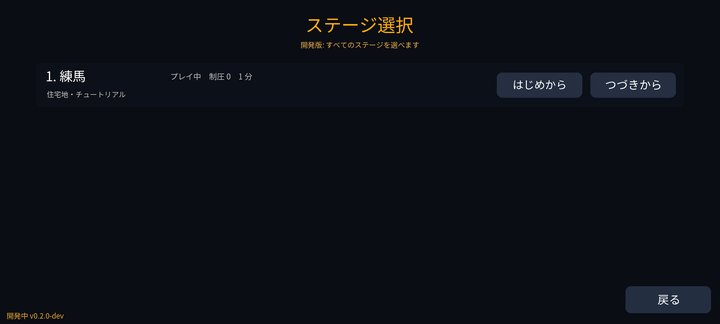
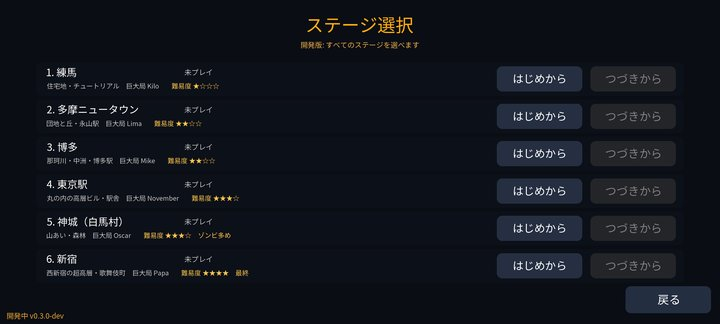
Phonetic Hound 0.3.0-dev (in development)

diff --git a/phonetic_hound/README.md b/phonetic_hound/README.md
@@ -2,7 +2,7 @@
 
 # Phonetic Hound（開発中）
 
-> **⚠ 開発中の版です。** 遊べるのは 2 ステージ（練馬・神城）で、見た目・バランス・操作は今後大きく変わります。
+> **⚠ 開発中の版です。** 全 6 ステージを遊べますが、見た目・バランス・操作は今後大きく変わります。
 > セーブデータは今後の版で引き継げなくなることがあります。
 
 電波で操られたゾンビがあふれる街。スマートフォンの**信号強度と電波の到来方向**を頼りに、
@@ -10,13 +10,13 @@
 
 ## ダウンロード
 
-### [APK をダウンロード（v0.2.0-dev・6.8 MB）](https://github.com/kijitora-no-hito/android-apps/releases/download/phonetichound-v0.2.0-dev/phonetichound-0.2.0-dev-release.apk)
+### [APK をダウンロード（v0.3.0-dev・10.1 MB）](https://github.com/kijitora-no-hito/android-apps/releases/download/phonetichound-v0.3.0-dev/phonetichound-0.3.0-dev-release.apk)
 
 | 項目 | 内容 |
 | --- | --- |
-| バージョン | 0.2.0-dev（2026-09-25・開発中） |
-| ファイル | `phonetichound-0.2.0-dev-release.apk`（7,141,203 バイト） |
[1 lines of base64/hex data omitted]
+| バージョン | 0.3.0-dev（2026-09-25・開発中） |
+| ファイル | `phonetichound-0.3.0-dev-release.apk`（10,631,808 バイト） |
[1 lines of base64/hex data omitted]
 | 対応 Android | 7.0 以上（横画面） |
 | 価格 | 無料・広告なし・アプリ内課金なし・アカウント登録なし |
 
@@ -39,16 +39,31 @@
   地図上の 3 か所の信号強度と到来方向を調べられます。
 - 街並みは実在の地形と建物のデータから作っています。電波は建物での反射・回折まで計算しています。
 
-## この版でできること（0.2.0-dev）
+## この版でできること（0.3.0-dev）
 
-- **ステージ 1「練馬」**（住宅地・チュートリアル、難易度 ★☆☆）と **ステージ 2「神城（白馬村）」**（山あい・森林、難易度 ★★★ ゾンビ多め）を、
-  最初から巨大基地局の停波まで遊べます。開発中の版では、どちらのステージも最初から選べます。
+- **全 6 ステージ**を、最初から巨大基地局の停波まで遊べます。開発中の版では、どのステージも最初から選べます。
+
+  | # | ステージ | 特徴 | 難易度 |
+  | --- | --- | --- | --- |
+  | 1 | 練馬 | 住宅地・チュートリアル | ★ |
+  | 2 | 多摩ニュータウン | 永山駅と団地・丘 | ★★ |
+  | 3 | 博多 | 博多駅・那珂川・中洲（橋を渡る） | ★★ |
+  | 4 | 東京駅 | 丸の内の高層ビル・駅舎・濠 | ★★★ |
+  | 5 | 神城（白馬村） | 山あい・森林・ゾンビ多め | ★★★ |
+  | 6 | 新宿 | 西新宿の超高層街（最終ステージ） | ★★★★ |
+
 - アンテナ 5 種類（メニューの「装備」で持ち替え。手に入れたアンテナは次のステージにも持ち越し）。
 - BGM と効果音（ケルト伝統曲をアプリ内のシンセサイザーで演奏）。設定画面で音量とカメラの感度を変えられます。
 - 操作: 画面の左半分をドラッグで移動、右半分をドラッグで視点。右下のボタンで攻撃・回避・指揮・停波。
 - セーブはステージごとに自動保存（休憩地点・制圧時・60 秒ごと）。0.1.0-dev のセーブは練馬に引き継がれます。
 
-まだ無いもの: 3 ステージ目以降（住宅地・博多・東京駅・新宿を予定）。
+これから: 難易度・バランスの調整、見た目の改善。
+
+### 0.2.0-dev からの変更
+
+- ステージ「多摩ニュータウン」「博多」「東京駅」「新宿」を追加。川・濠の水面、橋、超高層ビルの街並み。
+- ステージごとの探索曲、新宿の決戦曲を追加。
+- 狭い路地でカメラがガタつかないようにしました。
 
 ### 0.1.0-dev からの変更
 
@@ -62,6 +77,14 @@
 <tr>
 <td align="center"><img src="images/01.jpg" width="340" alt="ステージ選択"><br>ステージ選択</td>
 <td align="center"><img src="images/02.jpg" width="340" alt="神城の田んぼと森"><br>神城（白馬村）の田んぼと森</td>
+</tr>
+<tr>
+<td align="center"><img src="images/13.jpg" width="340" alt="新宿の超高層街"><br>新宿（最終）の超高層街</td>
+<td align="center"><img src="images/12.jpg" width="340" alt="東京駅の高層ビル"><br>東京駅・丸の内の高層ビル</td>
+</tr>
+<tr>
+<td align="center"><img src="images/11.jpg" width="340" alt="博多の那珂川"><br>博多・那珂川のほとり</td>
+<td align="center"><img src="images/14.jpg" width="340" alt="多摩ニュータウンの団地"><br>多摩ニュータウンの団地</td>
 </tr>
 <tr>
 <td align="center"><img src="images/03.jpg" width="340" alt="ゾンビの群れ"><br>神城はゾンビ多め</td>

diff --git a/phonetic_hound/music-data/README.md b/phonetic_hound/music-data/README.md
@@ -10,11 +10,38 @@ music (a Derivative Database), to be published as required by the ODbL share-ali
 
 | ファイル | 内容 |
 | --- | --- |
-| `*.abc` | 譜面データ 10 曲（ABC 記譜） |
-| `credits.json` | 曲ごとの場面（role）・出典・採譜者・元 URL・加えた変更 |
+| `*.abc` | 譜面データ 19 曲（ABC 記譜） |
+| `credits.json` | 曲ごとの場面（role・stage・scene）・出典・採譜者・元 URL・加えた変更 |
 | `LICENSE.txt` | ライセンス表記・著作権表示・加えた変更 |
 
 `android/assets/music/` と同じ内容です。`tools/music/fetch_tunes.py` が両方を書き出します。
+
+## 曲一覧 / Tunes
+
+| 場面 / Scene | 曲 / Tune | 種類・調 / Type, key | 採譜 / Transcribed by | 出典 / Source |
+| --- | --- | --- | --- | --- |
+| TITLE | Carolan's Farewell To Music | reel, A dorian | glauber | <https://thesession.org/tunes/244#setting244> |
+| EXPLORE (nerima) | Morrison's | jig, E dorian | Jeremy | <https://thesession.org/tunes/71#setting71> |
+| EXPLORE (nerima) | The Cliffs Of Moher | jig, A dorian | Jeremy | <https://thesession.org/tunes/12#setting12> |
+| EXPLORE (tama) | The Rights Of Man | hornpipe, E minor | Jeremy | <https://thesession.org/tunes/83#setting83> |
+| EXPLORE (tama) | The Mist Covered Mountain | jig, A dorian | glauber | <https://thesession.org/tunes/256#setting256> |
+| EXPLORE (hakata) | The Ballydesmond | polka, A dorian | Jeremy | <https://thesession.org/tunes/238#setting238> |
+| EXPLORE (hakata) | The Sligo Maid | reel, A dorian | Josh Kane | <https://thesession.org/tunes/399#setting399> |
+| EXPLORE (tokyo) | Julia Delaney's | reel, D dorian | b.maloney | <https://thesession.org/tunes/589#setting589> |
+| EXPLORE (tokyo) | Jenny's Chickens | reel, B minor | b.maloney | <https://thesession.org/tunes/756#setting756> |
+| EXPLORE (kamishiro) | The Kid On The Mountain | slip jig, E minor | Jeremy | <https://thesession.org/tunes/52#setting52> |
+| EXPLORE (kamishiro) | Scatter The Mud | jig, A dorian | seara | <https://thesession.org/tunes/728#setting728> |
+| EXPLORE (shinjuku) | The Gravel Walks | reel, A dorian | Jeremy | <https://thesession.org/tunes/42#setting42> |
+| EXPLORE (shinjuku) | Brian Boru's March | jig, A minor | JeffK627 | <https://thesession.org/tunes/271#setting271> |
+| COMBAT | The Musical Priest | reel, B minor | Jeremy | <https://thesession.org/tunes/73#setting73> |
+| COMBAT | The Star Of Munster | reel, A dorian | Jeremy | <https://thesession.org/tunes/197#setting197> |
+| COMBAT (FINAL) | Toss The Feathers | reel, E dorian | Jeremy | <https://thesession.org/tunes/113#setting113> |
+| REST | Port Na bPúcaí | waltz, D major | Daithi_C | <https://thesession.org/tunes/1811#setting1811> |
+| CLEAR | Haste To The Wedding | jig, D major | Jeremy | <https://thesession.org/tunes/582#setting582> |
+| DOWN | Chumha Eoghain Rua Ui Neill | reel, G minor | Respect | <https://thesession.org/tunes/907#setting7199> |
+
+COMBAT (FINAL) は最終ステージ（新宿）で巨大局のシールドが消えた後の戦闘曲です（`credits.json` の `scene: "FINAL"`）。
+COMBAT (FINAL) is the battle tune for the final stage (Shinjuku) after the macro station's shield is down.
 
 ## ライセンス / License
 
